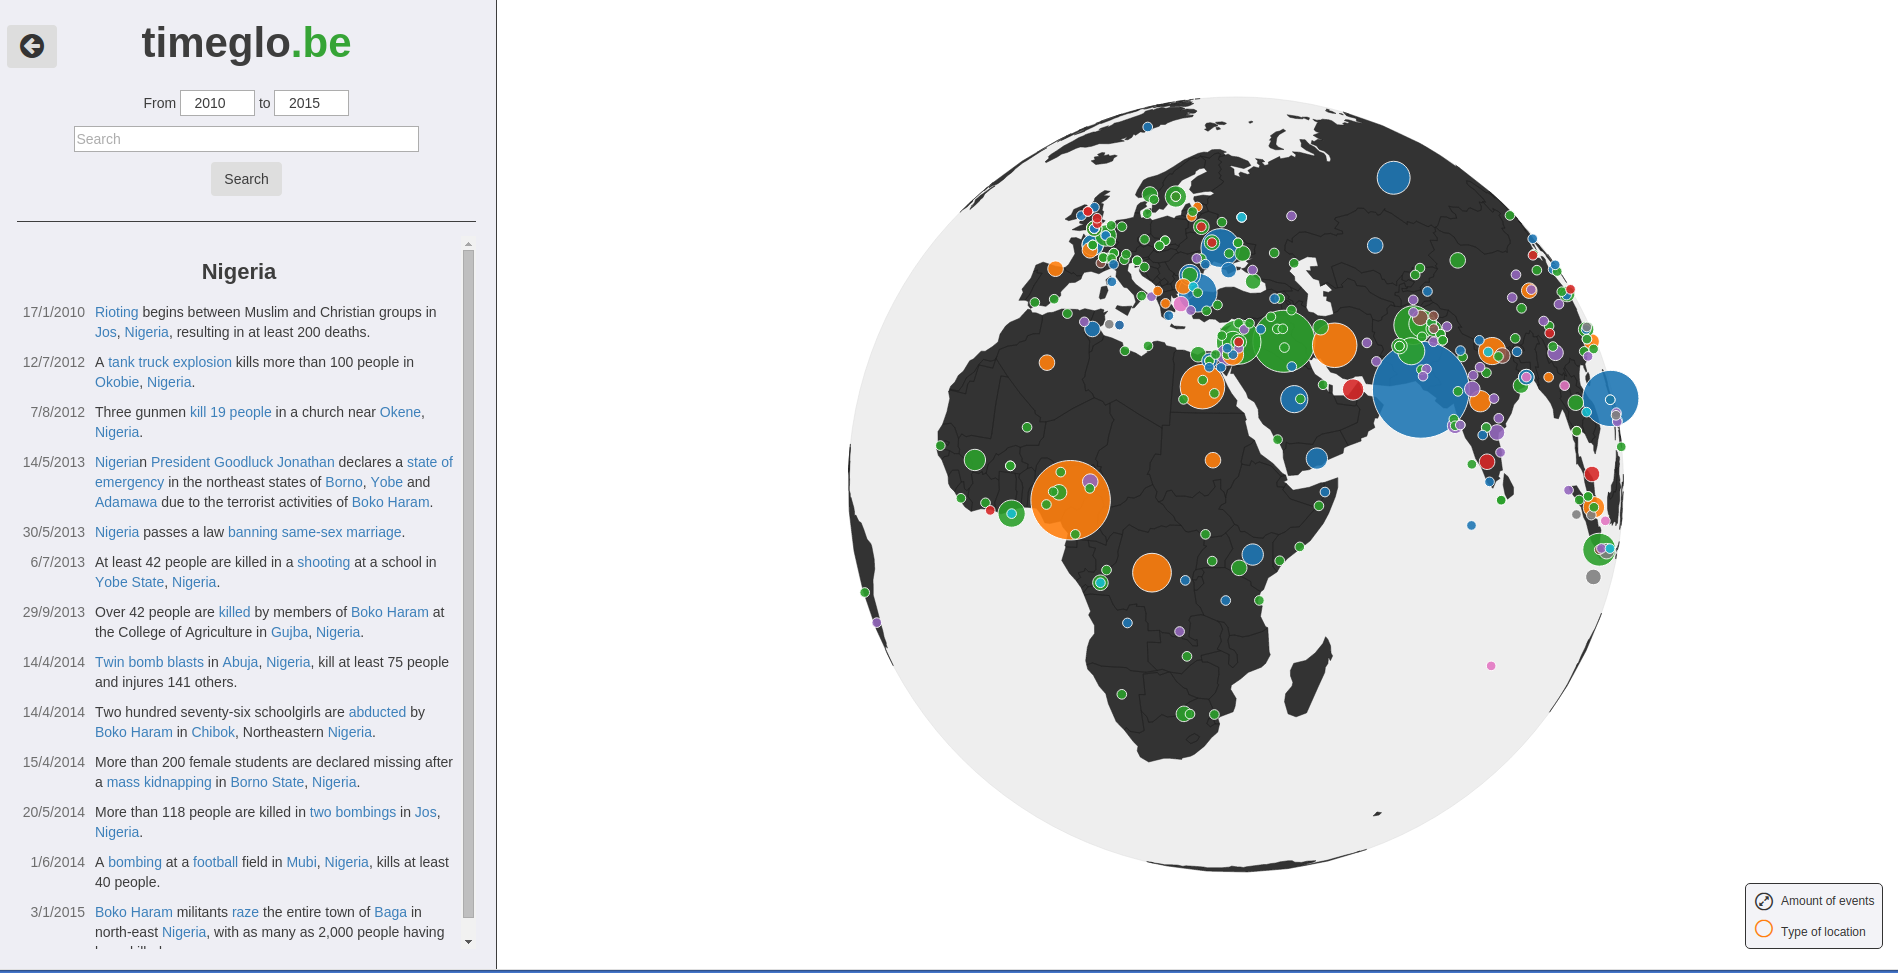
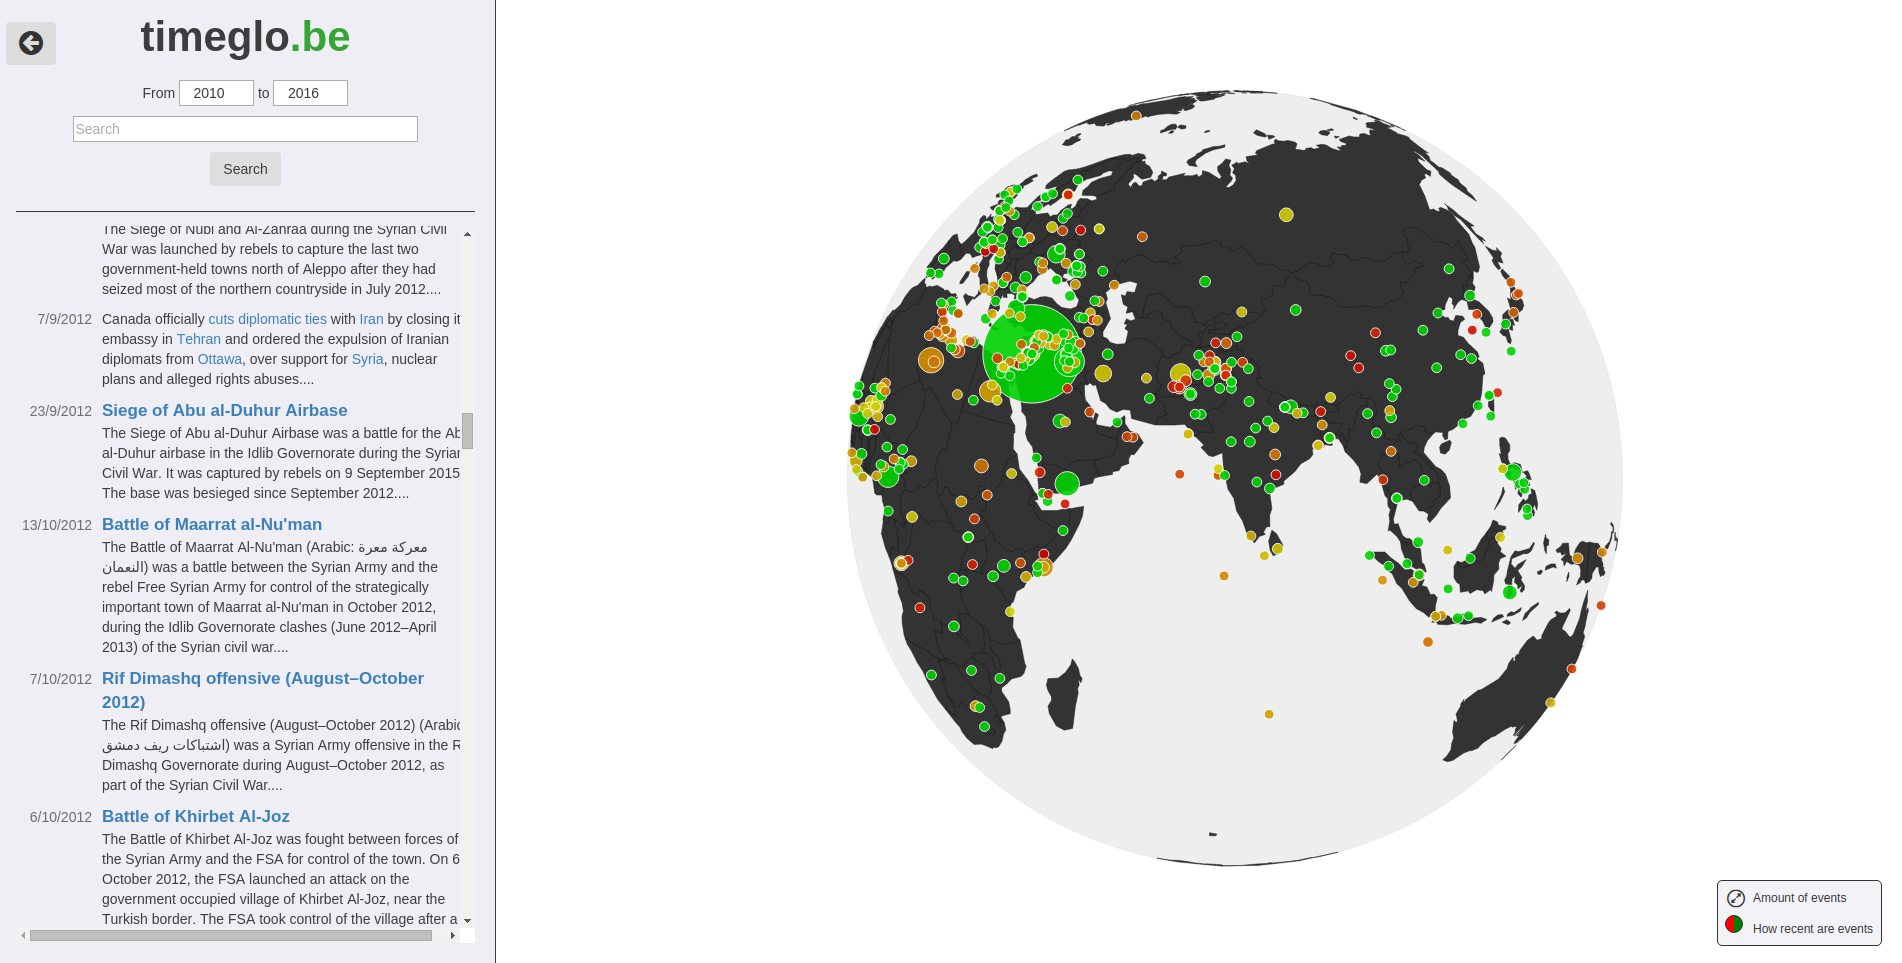
Updated readme and screenshot

diff --git a/README.md b/README.md
@@ -1,10 +1,10 @@
 # [timeglo.be](https://timeglo.be)
 
-A map of events from Wikipedia, taken from pages like [this](https://en.wikipedia.org/wiki/January_1).
+A map of events from Wikipedia, taken from pages like [this](https://en.wikipedia.org/wiki/January_1) and [DBpedia](http://wiki.dbpedia.org/).
 
 Using the [Wikipedia API](https://en.wikipedia.org/w/api.php), and mapping the event descriptions to locations using WikiMedia's [Geographical Coordinates](https://en.wikipedia.org/wiki/Wikipedia:WikiProject_Geographical_coordinates).
 
-These are then mapped onto a globe using [D3](d3js.org) and [Topojson](https://github.com/mbostock/topojson) managed by [Play! Framework](https://www.playframework.com/), sized by events in that location and coloured by population size.
+These are then mapped onto a globe using [D3](d3js.org) and [Topojson](https://github.com/mbostock/topojson) managed by [Play! Framework](https://www.playframework.com/), sized by events in that location and coloured by how recent the events are.
 
 ![Screenshot](public/images/screenshot.png?raw=true)
 
